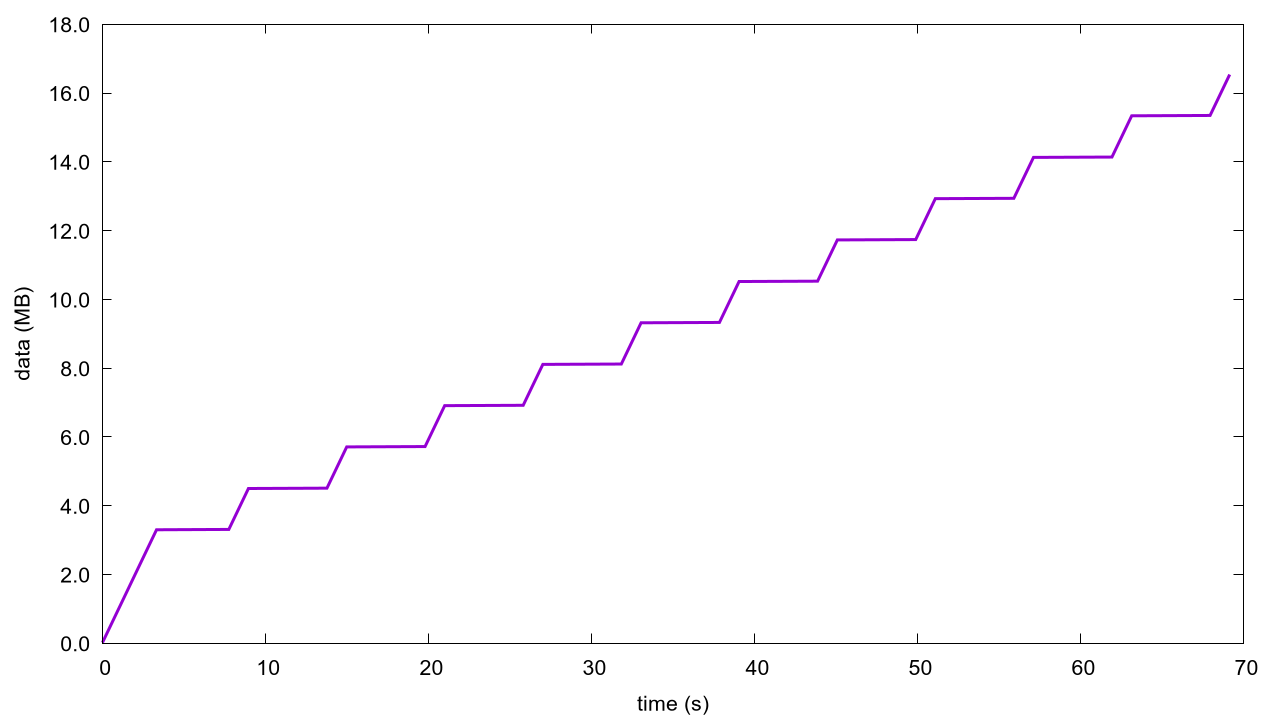
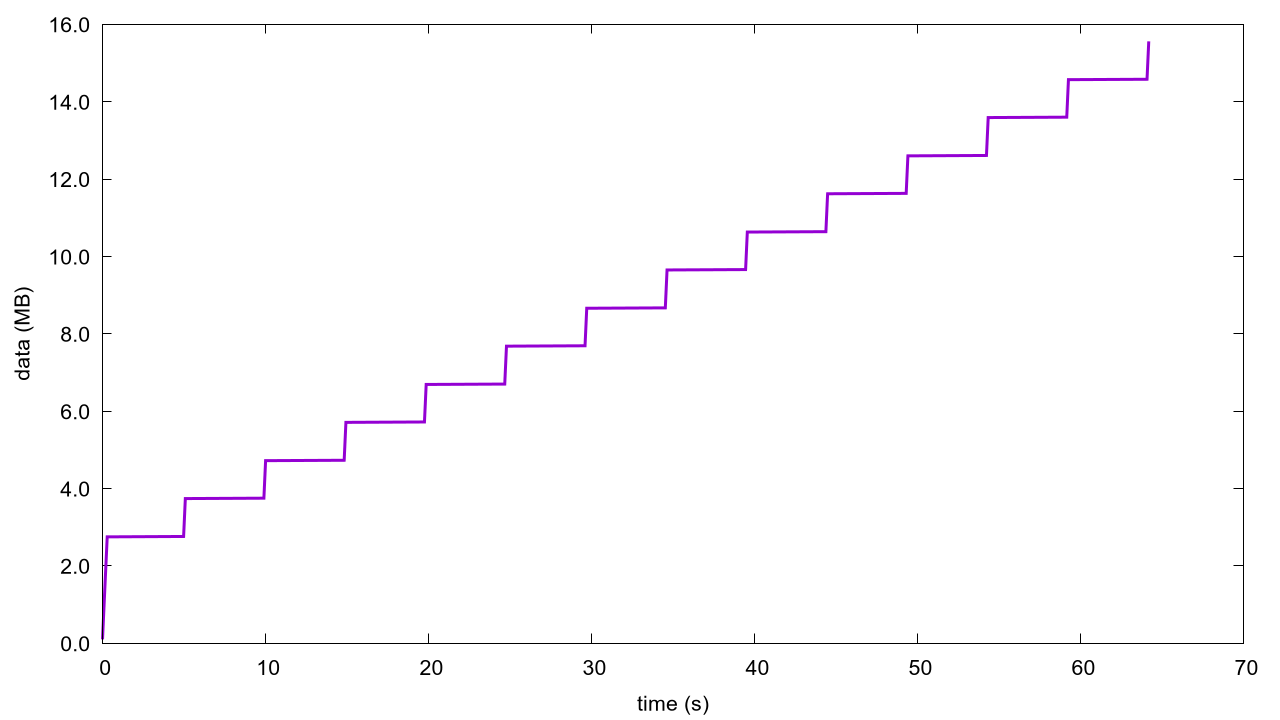
using monotonic

diff --git a/flow-control/server.py b/flow-control/server.py
@@ -3,7 +3,7 @@
 
 import sys
 import socket
-import time
+from time import sleep, monotonic
 
 
 def log(msg):
@@ -12,8 +12,8 @@ def log(msg):
 
 
 class Receiver:
-    def __init__(self, port, rate_limit):
-        self.rate_limit = rate_limit * 10**3
+    def __init__(self, port, target_rate_kBps):
+        self.target_rate = target_rate_kBps * 1000
         self.sock = socket.socket()
         self.sock.setsockopt(socket.SOL_SOCKET, socket.SO_REUSEADDR, 1)
         self.sock.bind(('', port))
@@ -26,36 +26,36 @@ class Receiver:
         rcv_buffer = self.conn.getsockopt(socket.SOL_SOCKET, socket.SO_RCVBUF) // 1000
         log(f'Receiving buffer size: {rcv_buffer:,} kB\n')
 
-        self.received = 0
-        self.start_time = time.time()
-
         try:
             self.receiving()
         except KeyboardInterrupt:
             self.sock.close()
 
     def receiving(self):
+        self.received = 0
+        self.start_time = monotonic()
         while 1:
             data = self.conn.recv(4096)
             if not data:
                 break
 
             self.received += len(data)
-            elapsed = time.time() - self.start_time
+            elapsed = monotonic() - self.start_time
             self.current_rate = self.received / elapsed
             self.show_stats()
 
-            if self.current_rate <= self.rate_limit:
+            if self.current_rate <= self.target_rate:
                 continue
 
-            adjust_time = (self.received / self.rate_limit) - elapsed
+            adjust_time = (self.received / self.target_rate) - elapsed
             if adjust_time > 0:
-                time.sleep(adjust_time)
+                sleep(adjust_time)
 
     def show_stats(self):
-        msg = f'received:{self.received//1000:,} kB, '
-        msg += f'rate:{self.current_rate/1000:,.0f} kB/s'
+        msg = f'received:{self.received // 1000:,} kB, '
+        msg += f'rate:{self.current_rate / 1000:,.1f} kB/s'
         log(f'\r {msg} {10 * " "}\r')
+        sleep(0.001)
 
 
 if len(sys.argv) != 3:
@@ -63,5 +63,5 @@ if len(sys.argv) != 3:
     sys.exit(1)
 
 port = int(sys.argv[1])
-limit = int(sys.argv[2])
-Receiver(port, limit).run()
+rate_limit = int(sys.argv[2])
+Receiver(port, rate_limit).run()

diff --git a/flow-control/client.py b/flow-control/client.py
@@ -3,9 +3,9 @@
 
 import sys
 import socket
-import time
 import itertools
 import atexit
+from time import sleep, monotonic
 
 BLOCK = 10000 * b'x'
 
@@ -19,20 +19,18 @@ def log(msg):
 
 class RateTrace:
     def __init__(self):
-        self.sent = 0
-        self.start = self.last = time.time()
+        self.start = self.last = monotonic()
         self.file = open('stats.csv', 'w')
         atexit.register(self.file.close)
 
     def update(self, bytes_sent, rate):
-        now = time.time()
-        if now - self.last < 0.001:
-            return
+        now = monotonic()
         elapsed = now - self.start
+        if elapsed < 0.01:
+            return
         self.last = now
         self.file.write(f'{elapsed:.3f},{bytes_sent},{rate:.3f}\n')
         self.file.flush()
-        self.sent = bytes_sent
 
 
 class Sender:
@@ -44,28 +42,30 @@ class Sender:
         self.trace = RateTrace()
 
     def run(self):
-        self.sent = 0
-        self.start_time = time.time()
-
         try:
             self.sending()
         except KeyboardInterrupt:
             self.sock.close()
 
     def sending(self):
+        self.sent = 0
+        self.start_time = monotonic()
         while 1:
-            rate = self.show_stats()
-            self.sent += self.sock.send(BLOCK)
-            self.trace.update(self.sent, rate)
+            self.sock.sendall(BLOCK)
+            self.sent += len(BLOCK)
+            self.current_rate = self.rate_kBps()
+            self.trace.update(self.sent, self.current_rate)
+            self.show_stats()
+
+    def rate_kBps(self):
+        elapsed = monotonic() - self.start_time
+        return self.sent // 1000 / elapsed
 
     def show_stats(self):
-        elapsed = time.time() - self.start_time
-        rate = self.sent/1000/elapsed
-        msg = f'sent:{self.sent//1000:,} kB, '
-        msg += f'rate:{rate:,.0f} kB/s'
+        msg = f'sent:{self.sent / 1000:,} kB, '
+        msg += f'rate:{self.current_rate:,.1f} kB/s'
         log(f'\r ({next(rotating)}) {msg} {10 * " "}\r')
-        time.sleep(0.01)
-        return rate
+        sleep(0.001)
 
 
 if len(sys.argv) != 3:
